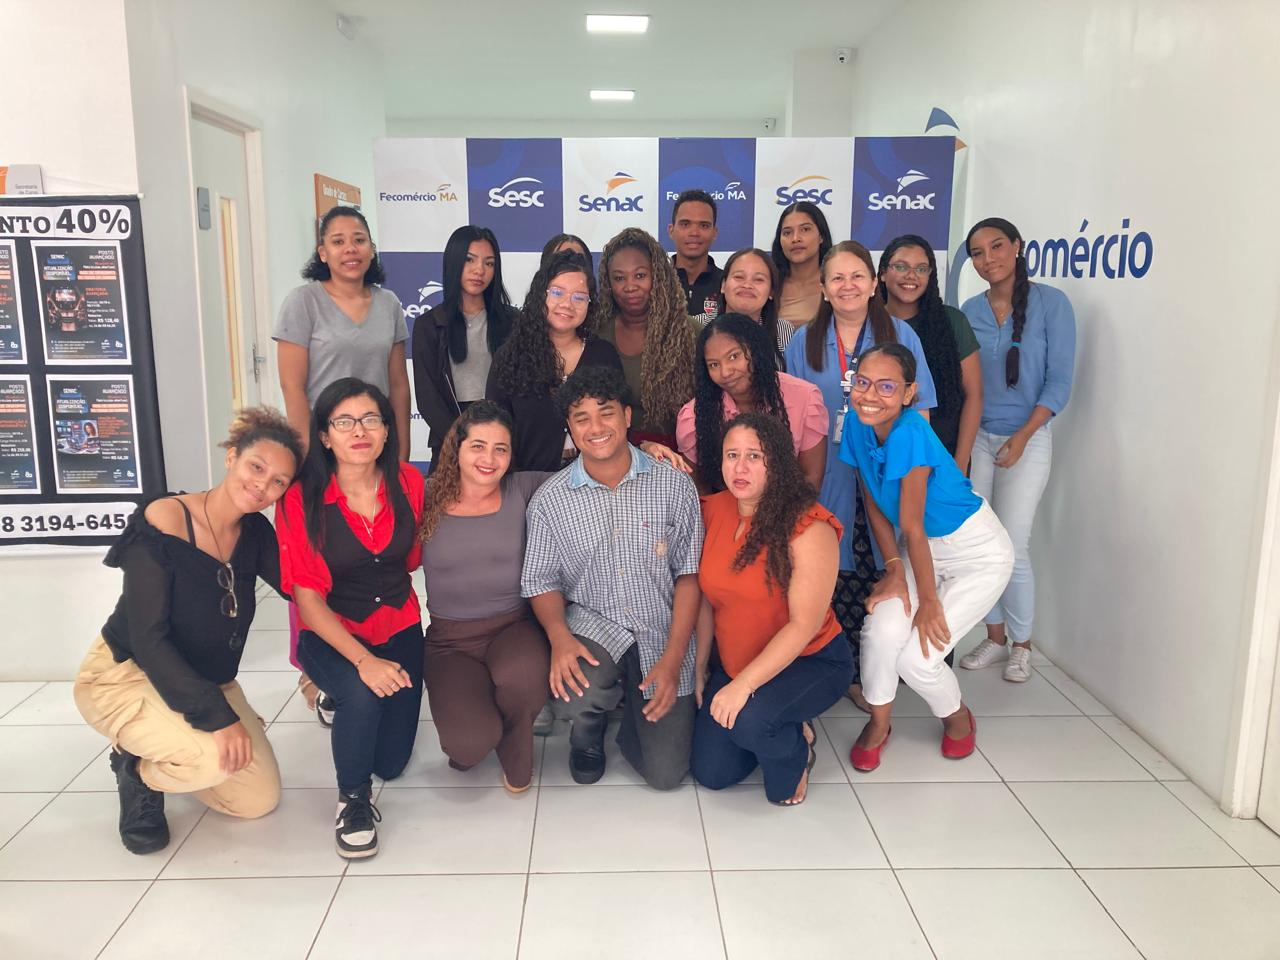
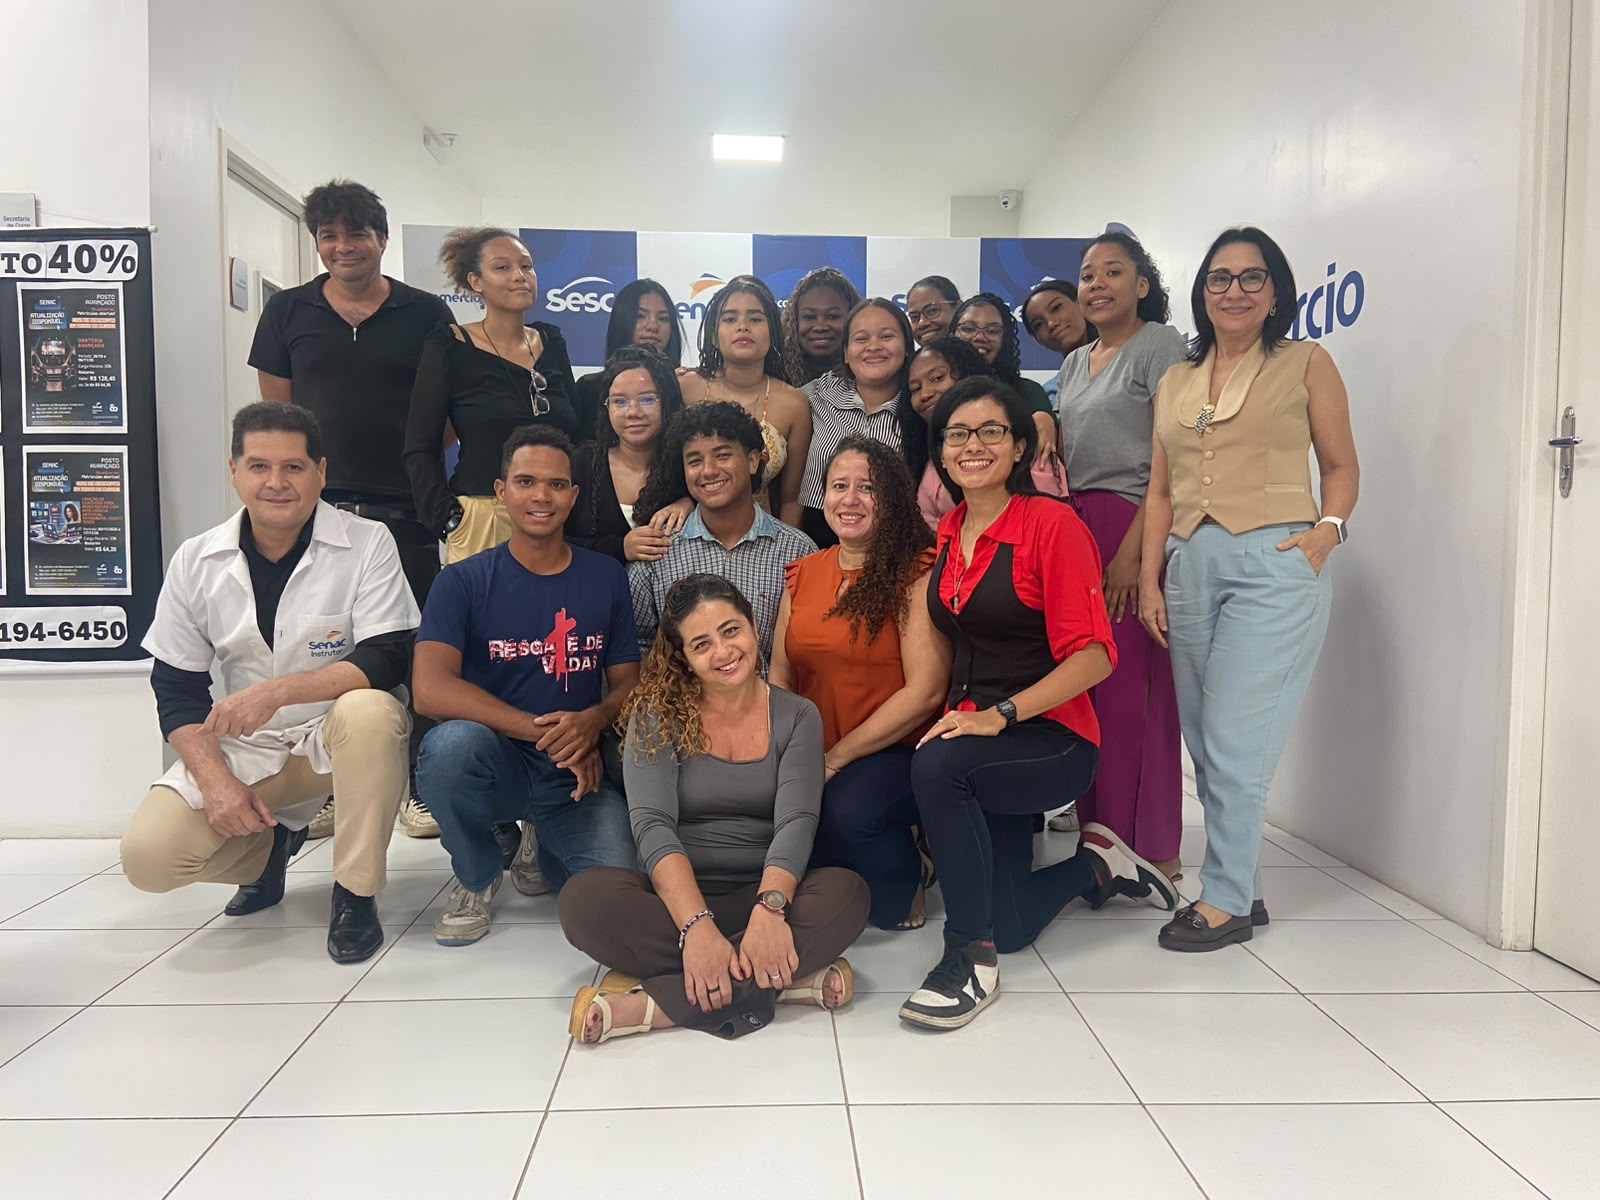
fix(assets): substitui a foto da secao Equipe Resoluta AGI pela nova imagem
- assets/equipe-resoluta-senac.jpg: novo arquivo (1600x1200, 216595 bytes)
  no MESMO caminho, mantendo a referencia ja existente no HTML.
- sw.js: CACHE resoluta-v6 -> resoluta-v7 para invalidar o cache-first
  e entregar a imagem nova aos navegadores com SW instalado.

Nenhuma alteracao em HTML, CSS, textos ou logica JavaScript.
Enquadramento preservado: mesma proporcao 4:3 e object-fit: cover.

diff --git a/sw.js b/sw.js
@@ -2,7 +2,7 @@
    Resoluta Finance — Service Worker (PWA)
    Cache do app shell + estratégia network-first para navegação.
    ========================================================================== */
-var CACHE = 'resoluta-v6';
+var CACHE = 'resoluta-v7';
 var ASSETS = [
   './',
   './index.html',
